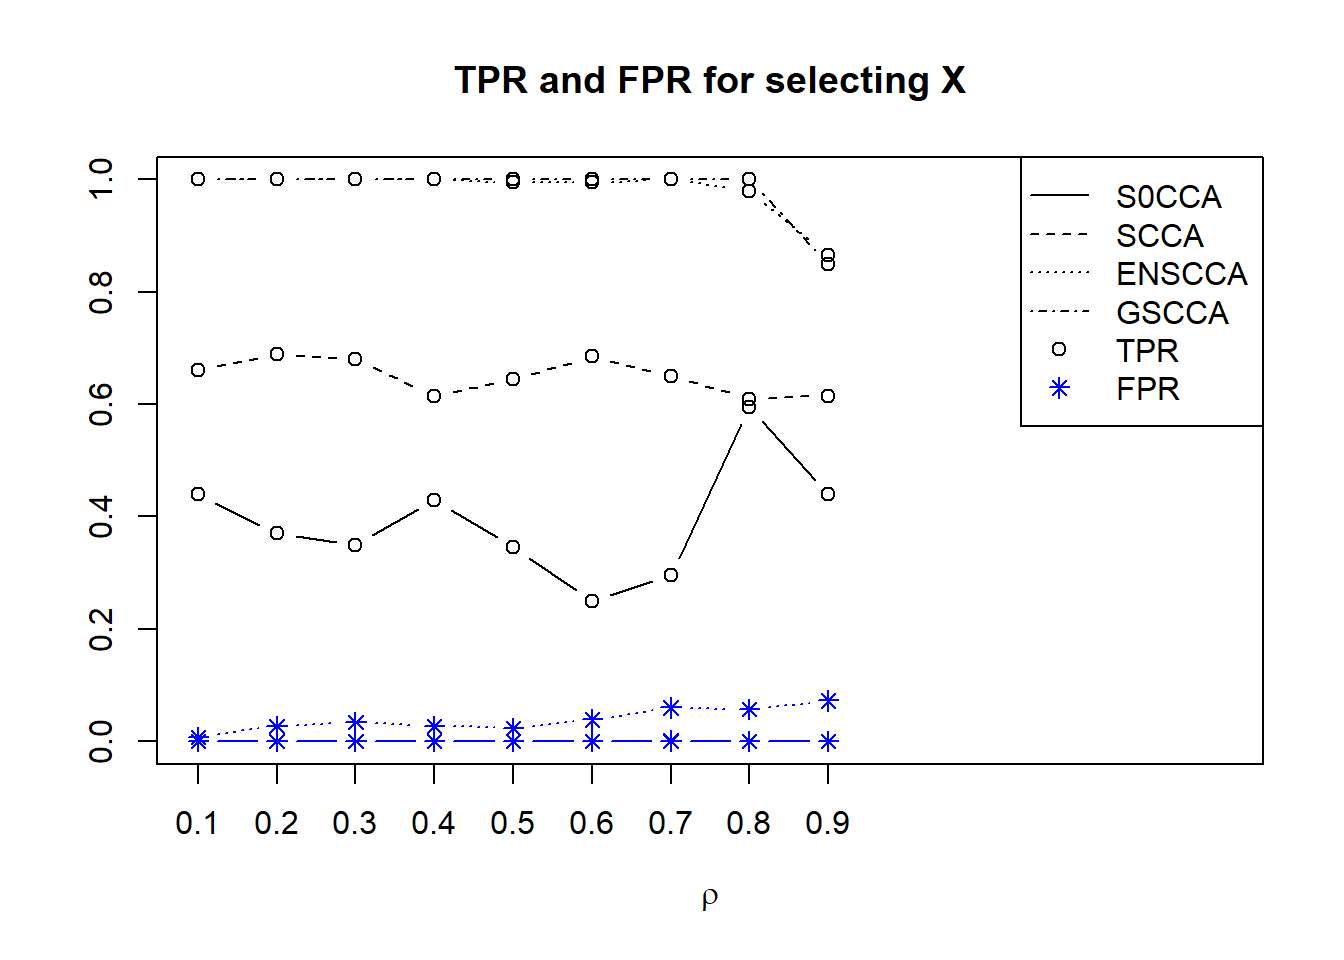
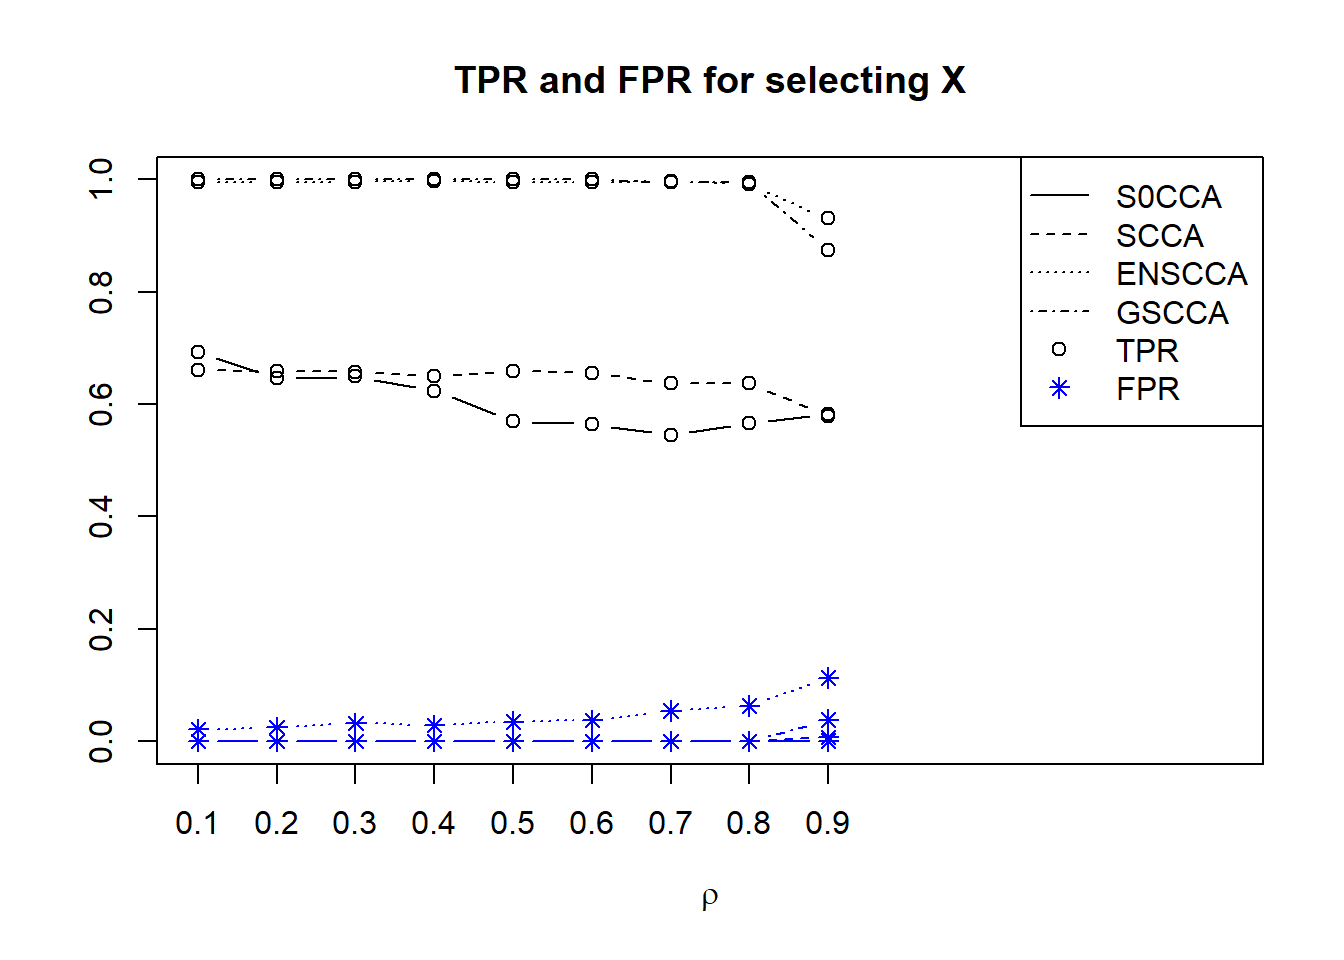
Build site.

diff --git a/docs/model3.html b/docs/model3.html
@@ -319,10 +319,10 @@ div.section {
 shared across the workflowr files. -->
 <!-- Update knitr chunk options -->
 <!-- Insert the date the file was last updated -->
-<p><strong>Last updated:</strong> 2017-12-29</p>
+<p><strong>Last updated:</strong> 2018-01-07</p>
 <!-- Insert the code version (Git commit SHA1) if Git repository exists and R
  package git2r is installed -->
-<p><strong>Code version:</strong> 8aac676</p>
+<p><strong>Code version:</strong> 3be9f93</p>
 <!-- Add your analysis here -->
 <p>Model 3 examines the effect of auto-regressive correlation.</p>
 <pre class="r"><code>library(scca)
@@ -338,10 +338,10 @@ model3gscca=c()
 for(rho in 1:length(rholist)){
   sigma_x=arcov(rholist[rho],100)
   sigma_y=sigma_x
-  model3S0=rbind(model3S0,finals(s0cca_simu(10,u,v,50,&#39;normal&#39;,1,sigma_x,sigma_y)))
-  model3S1=rbind(model3S1,finals(s1cca_simu(10,u,v,50,&#39;normal&#39;,1,sigma_x,sigma_y)))
-  model3elnet=rbind(model3elnet,finals(elnet.cca.simu(10,u,v,50,&#39;normal&#39;,1,sigma_x,sigma_y)))
-  model3gscca=rbind(model3gscca,finals(gscca.simu.normal(10,edges,u,v,50,&#39;normal&#39;,1,sigma_x,sigma_y,
+  model3S0=rbind(model3S0,finals(s0cca_simu(100,u,v,50,&#39;normal&#39;,1,sigma_x,sigma_y)))
+  model3S1=rbind(model3S1,finals(s1cca_simu(100,u,v,50,&#39;normal&#39;,1,sigma_x,sigma_y)))
+  model3elnet=rbind(model3elnet,finals(elnet.cca.simu(100,u,v,50,&#39;normal&#39;,1,sigma_x,sigma_y)))
+  model3gscca=rbind(model3gscca,finals(gscca.simu.normal(100,edges,edges,u,v,50,&#39;normal&#39;,1,sigma_x,sigma_y,
                                                          gamma.u = c(0.1),gamma.v = c(0.1),maxsteps=20)))
 }
 
@@ -404,16 +404,29 @@ attached base packages:
 [1] stats     graphics  grDevices utils     datasets  methods   base     
 
 other attached packages:
- [1] scca_0.1.0       dirmult_0.1.3-4  matrixcalc_1.0-3 glmnet_2.0-13   
- [5] foreach_1.4.3    genlasso_1.3     igraph_1.1.2     Matrix_1.2-9    
- [9] MASS_7.3-47      PMA_1.0.9        impute_1.50.1    plyr_1.8.4      
+ [1] scca_0.1.0      phyloseq_1.20.0 dirmult_0.1.3-4 glmnet_2.0-13  
+ [5] foreach_1.4.3   genlasso_1.3    igraph_1.1.2    Matrix_1.2-9   
+ [9] MASS_7.3-47     PMA_1.0.9       impute_1.50.1   plyr_1.8.4     
 
 loaded via a namespace (and not attached):
- [1] Rcpp_0.12.14     knitr_1.15.1     magrittr_1.5     lattice_0.20-35 
- [5] stringr_1.2.0    tools_3.4.0      grid_3.4.0       git2r_0.20.0    
- [9] htmltools_0.3.5  iterators_1.0.8  yaml_2.1.16      rprojroot_1.3-1 
-[13] digest_0.6.13    codetools_0.2-15 evaluate_0.10    rmarkdown_1.8   
-[17] stringi_1.1.6    compiler_3.4.0   backports_1.0.5  pkgconfig_2.0.1 </code></pre>
+ [1] reshape2_1.4.2      splines_3.4.0       lattice_0.20-35    
+ [4] rhdf5_2.20.0        colorspace_1.3-2    htmltools_0.3.5    
+ [7] stats4_3.4.0        yaml_2.1.16         mgcv_1.8-17        
+[10] survival_2.41-3     rlang_0.1.2         BiocGenerics_0.22.0
+[13] stringr_1.2.0       zlibbioc_1.21.0     Biostrings_2.43.8  
+[16] munsell_0.4.3       gtable_0.2.0        codetools_0.2-15   
+[19] evaluate_0.10       Biobase_2.35.1      knitr_1.15.1       
+[22] permute_0.9-4       IRanges_2.9.19      biomformat_1.4.0   
+[25] parallel_3.4.0      Rcpp_0.12.14        backports_1.0.5    
+[28] scales_0.4.1        vegan_2.4-4         S4Vectors_0.13.17  
+[31] jsonlite_1.4        XVector_0.15.2      ggplot2_2.2.1      
+[34] digest_0.6.13       stringi_1.1.6       grid_3.4.0         
+[37] ade4_1.7-6          rprojroot_1.3-1     tools_3.4.0        
+[40] magrittr_1.5        lazyeval_0.2.0      tibble_1.3.3       
+[43] cluster_2.0.6       ape_5.0             pkgconfig_2.0.1    
+[46] data.table_1.10.4   rmarkdown_1.8       iterators_1.0.8    
+[49] multtest_2.32.0     nlme_3.1-131        git2r_0.20.0       
+[52] compiler_3.4.0     </code></pre>
 
 <!-- Adjust MathJax settings so that all math formulae are shown using
 TeX fonts only; see
